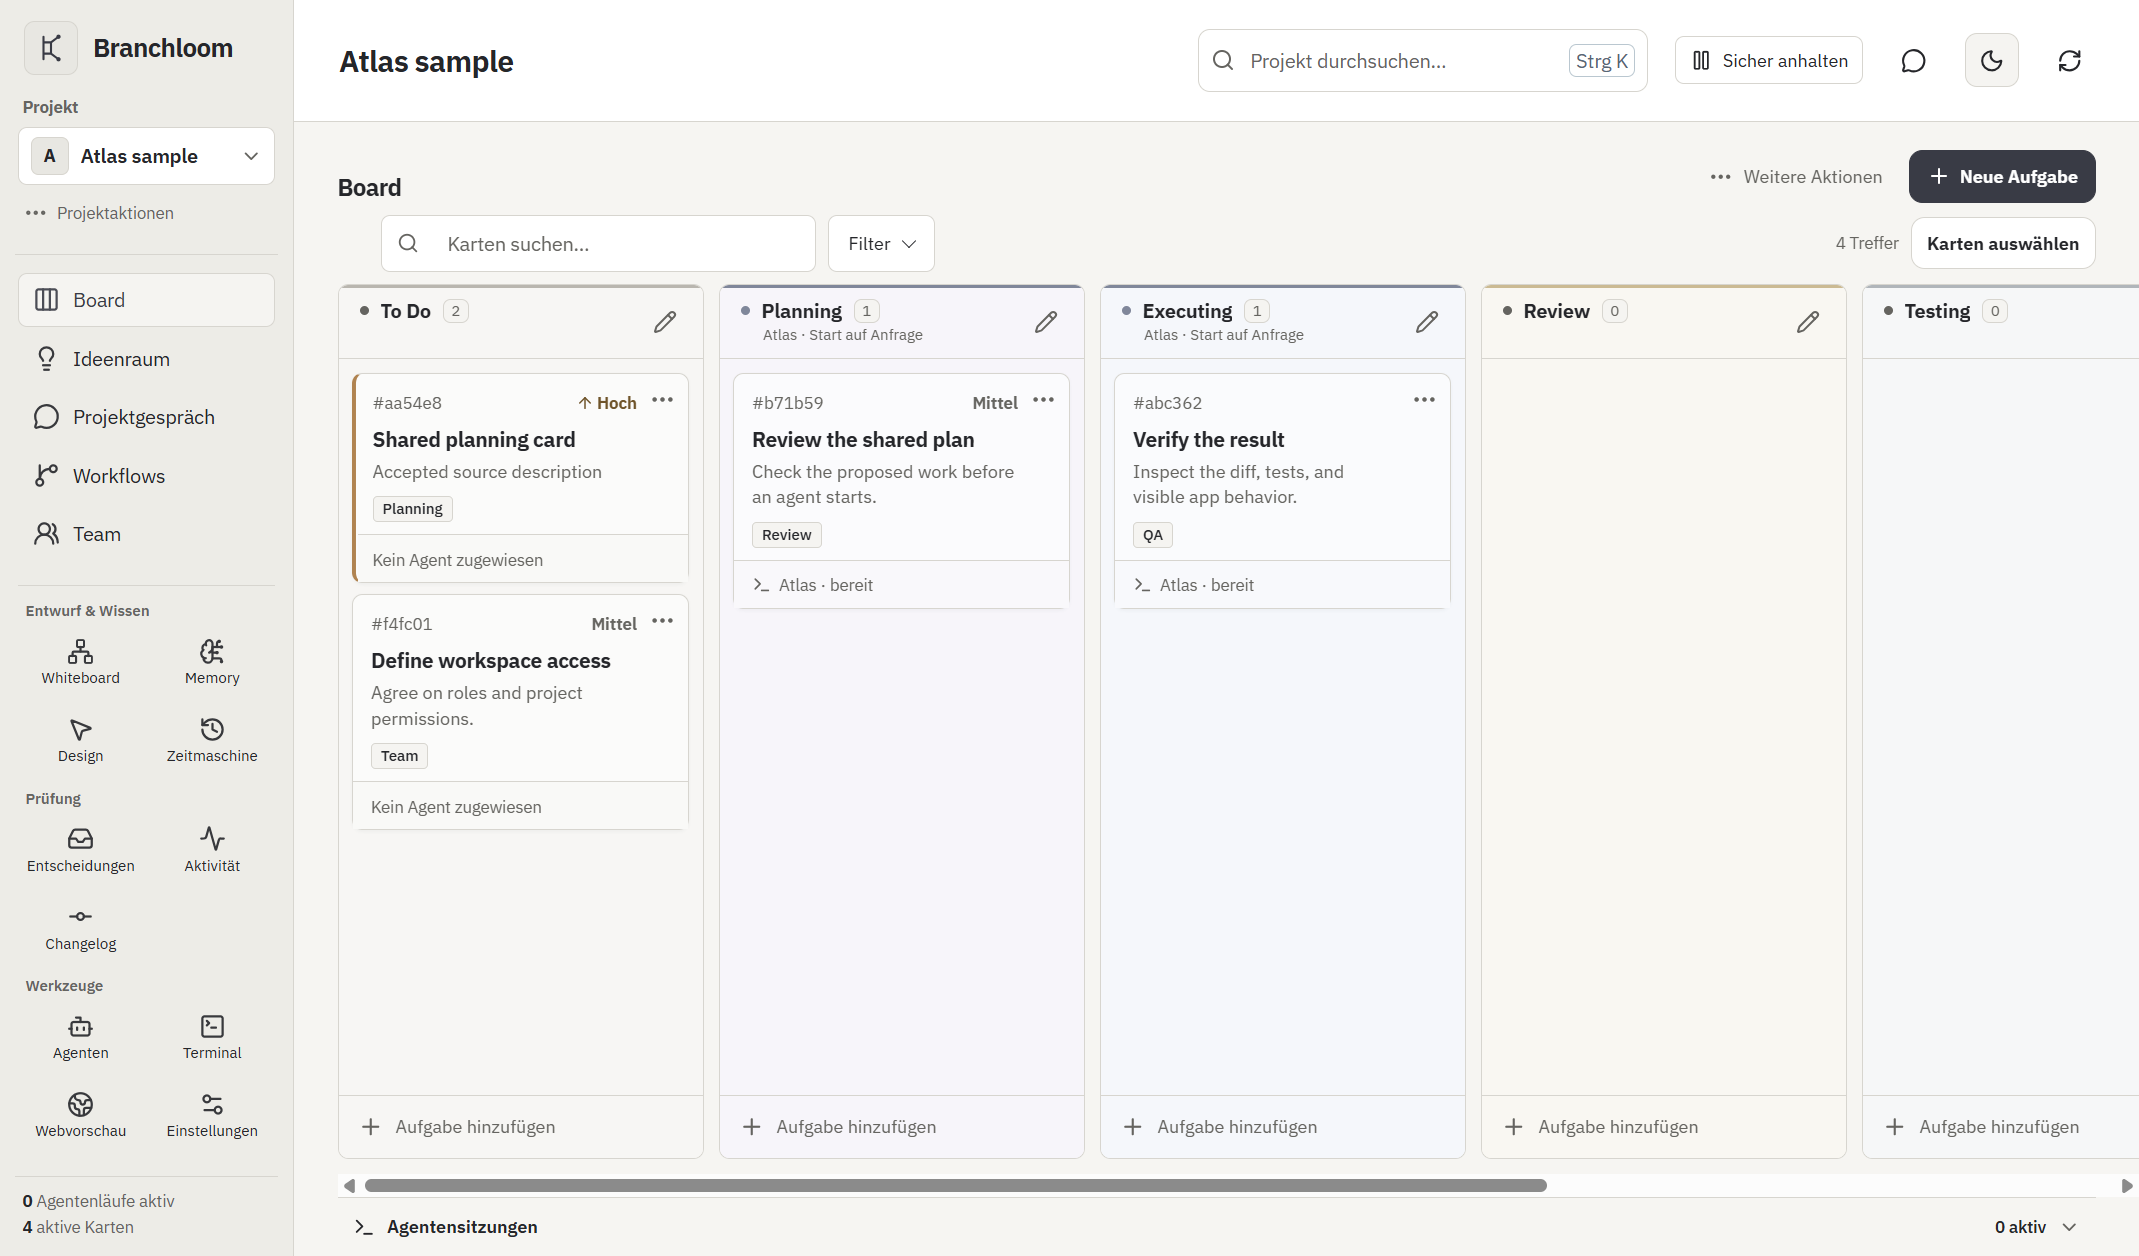
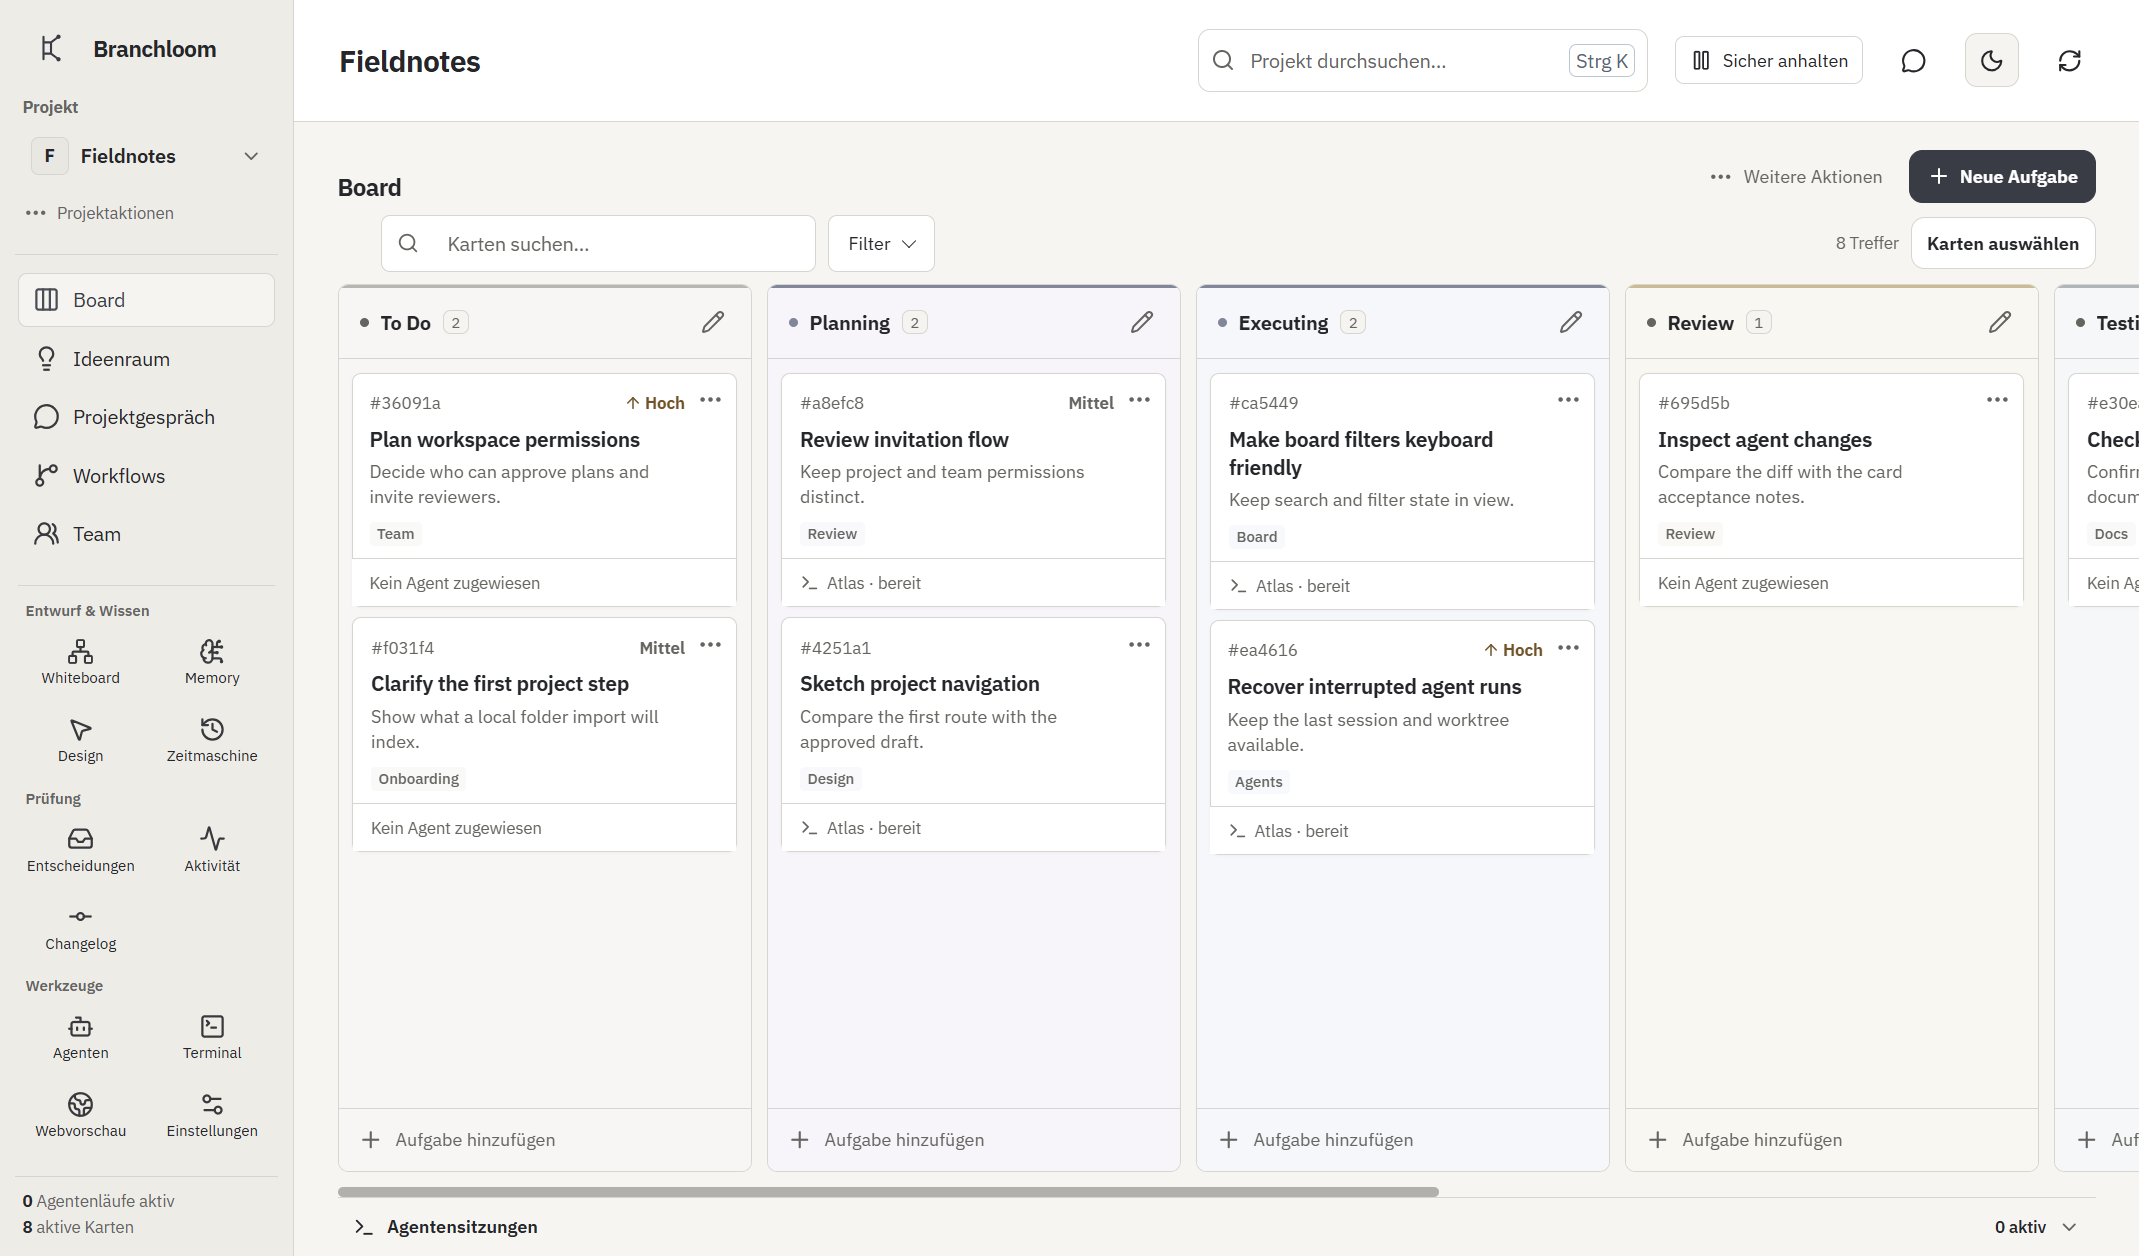
Lighten board cards and navigation rhythm

diff --git a/src/renderer/signals.css b/src/renderer/signals.css
@@ -182,7 +182,7 @@
 /* Card hierarchy: a quiet identity line, readable task, then real work state. */
 :root[data-theme] .board-scroll { padding-bottom: 0; }
 :root[data-theme] .board-columns { height: 100%; min-height: 0; align-items: stretch; gap: 10px; padding-bottom: 10px; }
-:root[data-theme] .board-column { width: 244px; min-width: 244px; height: 100%; min-height: 0; max-height: none; }
+:root[data-theme] .board-column { width: 276px; min-width: 276px; height: 100%; min-height: 0; max-height: none; }
 :root[data-theme] .board-column .column-body { flex: 1 1 auto; min-height: 0; }
 :root[data-theme] .board-card-wrap > .task-card {
   display: flex;
@@ -190,15 +190,15 @@
   gap: 0;
   min-height: 114px;
   padding: 10px 34px 0 12px;
-  border-color: color-mix(in srgb, var(--border) 80%, var(--text) 20%);
-  border-top: 2px solid var(--column-edge, var(--border));
-  border-radius: 5px;
-  box-shadow: 0 1px 2px color-mix(in srgb, var(--text) 5%, transparent);
+  border-color: var(--border);
+  border-radius: 6px;
+  background: var(--surface);
+  box-shadow: 0 1px 1px color-mix(in srgb, var(--text) 4%, transparent);
 }
 :root[data-theme] .board-card-wrap:not(.is-selecting) > .task-card { padding-left: 12px; }
 :root[data-theme] .board-card-wrap > .task-card.is-running,
 :root[data-theme] .board-card-wrap > .task-card[data-priority='urgent'],
-:root[data-theme] .board-card-wrap > .task-card[data-priority='high']:not(.is-running) { padding-left: 10px; }
+:root[data-theme] .board-card-wrap > .task-card[data-priority='high']:not(.is-running) { padding-left: 12px; border-left: 1px solid var(--border); }
 :root[data-theme] .task-card-kicker { display: flex; align-items: center; justify-content: space-between; gap: 8px; margin-bottom: 7px; color: var(--muted); font-size: 10px; font-variant-numeric: tabular-nums; }
 :root[data-theme] .task-card-priority-text { font-weight: 650; }
 :root[data-theme] .task-card-priority-text.priority-urgent { color: var(--danger); }
@@ -206,10 +206,7 @@
 :root[data-theme] .board-card-wrap > .task-card strong { display: -webkit-box; overflow: hidden; -webkit-box-orient: vertical; -webkit-line-clamp: 2; font-size: 14px; line-height: 1.35; }
 :root[data-theme] .board-card-wrap > .task-card .task-card-description { margin-top: 5px; font-size: 12px; line-height: 1.35; }
 :root[data-theme] .board-card-wrap > .task-card .task-card-metadata { order: 3; margin-top: 9px; }
-:root[data-theme] .board-card-wrap > .task-card .task-card-footer { order: 4; margin: auto -34px 0 -12px; min-height: 31px; padding: 7px 34px 6px 12px; border-top: 1px solid var(--border); background: color-mix(in srgb, var(--surface) 88%, var(--column-wash, var(--surface-2))); font-size: 11px; }
-:root[data-theme] .board-card-wrap > .task-card.is-running .task-card-footer,
-:root[data-theme] .board-card-wrap > .task-card[data-priority='urgent'] .task-card-footer,
-:root[data-theme] .board-card-wrap > .task-card[data-priority='high'] .task-card-footer { margin-left: -10px; padding-left: 10px; }
+:root[data-theme] .board-card-wrap > .task-card .task-card-footer { order: 4; margin: auto -34px 0 -12px; min-height: 31px; padding: 7px 34px 6px 12px; border-top: 1px solid var(--border); background: var(--surface); font-size: 11px; }
 :root[data-theme] .board-session-dock { border-top: 1px solid var(--border); background: var(--surface); }
 :root[data-theme] .board-session-toggle { min-height: 42px; padding-inline: 10px; font-weight: 600; }
 :root[data-theme] .board-session-toggle > strong { color: var(--text); }
@@ -219,7 +216,7 @@
 :root[data-theme] .board-session-running.state-stopped { background: var(--warning); }
 :root[data-theme] .board-session-running.state-failed { background: var(--danger); }
 @media (max-width: 600px) {
-  :root[data-theme] .board-column { width: min(244px, calc(100vw - 42px)); min-width: min(244px, calc(100vw - 42px)); }
+  :root[data-theme] .board-column { width: min(276px, calc(100vw - 42px)); min-width: min(276px, calc(100vw - 42px)); }
 }
 
 /* The board is the primary surface: keep its header quiet and the session rail compact when idle. */
@@ -285,18 +282,18 @@
 :root[data-theme] .board-filter-fields { width: min(360px, calc(100vw - 40px)); }
 :root[data-theme] .board-filter-fields label > span:not(.sr-only) { display: block; margin-bottom: 4px; color: var(--muted); font-size: 11px; }
 /* Cards keep the reference's information rhythm while using only persisted card and run data. */
-:root[data-theme] .board-card-wrap > .task-card { border-radius: 7px; padding-top: 11px; background: color-mix(in srgb, var(--surface) 55%, var(--column-wash, var(--surface-2))); }
+:root[data-theme] .board-card-wrap > .task-card { border-radius: 6px; padding-top: 11px; background: var(--surface); }
 :root[data-theme] .board-card-wrap > .task-card .task-card-kicker { min-height: 17px; margin-bottom: 6px; font-size: 11px; letter-spacing: .01em; }
 :root[data-theme] .task-card-priority-text { display: inline-flex; align-items: center; gap: 2px; font-size: 11px; }
-:root[data-theme] .board-card-wrap > .task-card strong { font-weight: 660; letter-spacing: -.015em; }
+:root[data-theme] .board-card-wrap > .task-card strong { font-weight: 620; letter-spacing: -.015em; }
 :root[data-theme] .board-card-wrap > .task-card .task-card-description { margin-top: 4px; color: var(--muted); line-height: 1.42; }
 :root[data-theme] .board-card-wrap > .task-card .task-card-metadata { gap: 4px; margin: 8px 0 8px; }
 :root[data-theme] .board-card-wrap > .task-card .task-card-metadata .card-label {
-  padding: 2px 6px;
-  border: 1px solid var(--border);
+  padding: 2px 5px;
+  border: 0;
   border-radius: 3px;
-  background: var(--surface-2);
-  color: var(--text);
+  background: color-mix(in srgb, var(--column-wash, var(--surface-2)) 72%, var(--surface));
+  color: var(--muted);
   font-size: 10px;
   font-weight: 500;
 }
@@ -306,10 +303,32 @@
   border-bottom: 1px solid var(--border);
   font-size: 10px;
 }
-:root[data-theme] .board-card-wrap > .task-card .task-card-footer { min-height: 32px; background: color-mix(in srgb, var(--surface) 30%, var(--column-wash, var(--surface-2))); color: var(--muted); }
+:root[data-theme] .board-card-wrap > .task-card .task-card-footer { min-height: 32px; background: var(--surface); color: var(--muted); }
+:root[data-theme] .board-column .column-run-summary { display: none; }
+:root[data-theme] .board-column .column-header { min-height: 43px; align-items: center; }
 :root[data-theme] .board-card-wrap > .task-card[data-run-state='failed'] .task-card-footer { color: var(--danger); }
 :root[data-theme] .board-card-wrap > .task-card[data-run-state='stopped'] .task-card-footer { color: var(--warning); }
+:root[data-theme] .board-scroll::-webkit-scrollbar { width: 7px; height: 7px; }
+:root[data-theme] .board-scroll::-webkit-scrollbar-thumb { border-radius: 8px; background: color-mix(in srgb, var(--muted) 48%, transparent); }
+:root[data-theme] .board-scroll::-webkit-scrollbar-track { background: transparent; }
+:root[data-theme] .brand-mark { border: 0; background: transparent; }
+:root[data-theme] .brand { padding-bottom: 18px; }
+:root[data-theme] .brand strong { font-size: 15px; font-weight: 650; }
+:root[data-theme] .nav-item.active { border-color: transparent; background: color-mix(in srgb, var(--surface) 62%, var(--sidebar)); color: var(--text); }
+:root[data-theme] .sidebar-projects .project-switcher-trigger { border-color: transparent; background: transparent; }
+:root[data-theme] .sidebar-projects .project-switcher-trigger:hover,
+:root[data-theme] .sidebar-projects .project-switcher-trigger[aria-expanded='true'] { background: color-mix(in srgb, var(--surface) 62%, var(--sidebar)); }
 @media (max-width: 600px) {
+  :root[data-theme] .sidebar { height: 52px; }
+  :root[data-theme] .side-nav { scrollbar-width: none; }
+  :root[data-theme] .side-nav::-webkit-scrollbar { display: none; }
+  :root[data-theme] .topbar { min-height: 54px; padding-block: 5px; }
+  :root[data-theme] .mobile-workspace { padding-block: 5px; }
+  :root[data-theme] .board-page { padding-top: 8px; }
+  :root[data-theme] .board-toolbar.board-header-actions { flex-direction: row; align-items: center; gap: 8px; padding-right: 16px; }
+  :root[data-theme] .board-header-tools { flex-wrap: nowrap; margin-left: auto; gap: 4px; }
+  :root[data-theme] .board-more-tools > summary { justify-content: center; width: 35px; min-width: 35px; overflow: hidden; font-size: 0; }
+  :root[data-theme] .board-scroll::-webkit-scrollbar { display: none; }
   :root[data-theme] .board-filters { display: grid; grid-template-columns: minmax(0, 1fr) auto auto; align-items: center; }
   :root[data-theme] .board-filters .board-search { grid-column: 1 / -1; width: 100%; min-width: 0; }
   :root[data-theme] .board-filter-count { grid-column: 2; margin: 0; }

diff --git a/src/main/smoke-team-workspace.ts b/src/main/smoke-team-workspace.ts
@@ -16,11 +16,12 @@ export async function runTeamWorkspaceVisibleSmoke(window: BrowserWindow, store:
   const boardScreenshot = process.env.BRANCHLOOM_TEAM_BOARD_OVERVIEW_SCREENSHOT;
   const narrowBoardScreenshot = process.env.BRANCHLOOM_TEAM_BOARD_NARROW_SCREENSHOT;
   const darkBoardScreenshot = process.env.BRANCHLOOM_TEAM_BOARD_DARK_SCREENSHOT;
-  const projectName = boardScreenshot ? 'Atlas sample' : 'Synthetic team project';
+  const projectName = boardScreenshot ? 'Fieldnotes' : 'Synthetic team project';
   const project = store.createProject({ name: projectName, path: projectPath });
   const card = store.createCard({ projectId: project.id, columnId: store.snapshot(project.id).columns[0]!.id,
-    title: 'Shared planning card', description: 'Accepted source description',
-    ...(boardScreenshot ? { priority: 'high' as const, labels: ['Planning'] } : {}) });
+    title: boardScreenshot ? 'Plan workspace permissions' : 'Shared planning card',
+    description: boardScreenshot ? 'Decide who can approve plans and invite reviewers.' : 'Accepted source description',
+    ...(boardScreenshot ? { priority: 'high' as const, labels: ['Team'] } : {}) });
   await new Promise<void>((resolve, reject) => {
     window.webContents.once('did-finish-load', () => resolve());
     window.webContents.once('did-fail-load', (_event, _code, detail) => reject(new Error(detail)));
@@ -32,11 +33,19 @@ export async function runTeamWorkspaceVisibleSmoke(window: BrowserWindow, store:
     if (columns[1]) store.updateColumn({ id: columns[1].id, agentId: sampleAgent.id });
     if (columns[2]) store.updateColumn({ id: columns[2].id, agentId: sampleAgent.id });
     store.createCard({ projectId: project.id, columnId: columns[0]!.id,
-      title: 'Define workspace access', description: 'Agree on roles and project permissions.', priority: 'medium', labels: ['Team'] });
+      title: 'Clarify the first project step', description: 'Show what a local folder import will index.', priority: 'medium', labels: ['Onboarding'] });
     store.createCard({ projectId: project.id, columnId: columns[1]?.id ?? columns[0]!.id,
-      title: 'Review the shared plan', description: 'Check the proposed work before an agent starts.', priority: 'medium', labels: ['Review'] });
+      title: 'Review invitation flow', description: 'Keep project and team permissions distinct.', priority: 'medium', labels: ['Review'] });
     store.createCard({ projectId: project.id, columnId: columns[2]?.id ?? columns[0]!.id,
-      title: 'Verify the result', description: 'Inspect the diff, tests, and visible app behavior.', labels: ['QA'] });
+      title: 'Make board filters keyboard friendly', description: 'Keep search and filter state in view.', labels: ['Board'] });
+    store.createCard({ projectId: project.id, columnId: columns[1]?.id ?? columns[0]!.id,
+      title: 'Sketch project navigation', description: 'Compare the first route with the approved draft.', labels: ['Design'] });
+    store.createCard({ projectId: project.id, columnId: columns[2]?.id ?? columns[0]!.id,
+      title: 'Recover interrupted agent runs', description: 'Keep the last session and worktree available.', priority: 'high', labels: ['Agents'] });
+    if (columns[3]) store.createCard({ projectId: project.id, columnId: columns[3].id,
+      title: 'Inspect agent changes', description: 'Compare the diff with the card acceptance notes.', labels: ['Review'] });
+    if (columns[4]) store.createCard({ projectId: project.id, columnId: columns[4].id,
+      title: 'Check release notes', description: 'Confirm that the visible changes are documented.', labels: ['Docs'] });
     await window.webContents.executeJavaScript(`(async () => {
       const select = document.querySelector('#project-select');
       if (!(select instanceof HTMLSelectElement)) throw new Error('Synthetic board selector is missing.');
@@ -44,7 +53,7 @@ export async function runTeamWorkspaceVisibleSmoke(window: BrowserWindow, store:
       setter.call(select, ${JSON.stringify(project.id)});
       select.dispatchEvent(new Event('change', { bubbles: true }));
       for (let attempt = 0; attempt < 120; attempt += 1) {
-        if (document.querySelector('.board-columns')?.textContent?.includes('Verify the result')) return true;
+        if (document.querySelector('.board-columns')?.textContent?.includes('Make board filters keyboard friendly')) return true;
         await new Promise((resolve) => setTimeout(resolve, 50));
       }
       throw new Error('Synthetic board did not settle for screenshot.');
@@ -232,7 +241,7 @@ export async function runTeamWorkspaceVisibleSmoke(window: BrowserWindow, store:
     if (!team) throw new Error('Team view is unavailable.');
     team.click();
     const board = await wait(() => document.querySelector('.team-workspace-board'), 'shared board');
-    if (!board.textContent.includes('Shared planning card')) throw new Error('Team card is absent from shared board.');
+    if (!board.textContent.includes(${JSON.stringify(card.title)})) throw new Error('Team card is absent from shared board.');
     board.querySelector('.team-workspace-card').click();
     const editor = await wait(() => document.querySelector('.team-card-draft textarea:not(:disabled)'), 'draft editor');
     const priority = await wait(() => document.querySelector('select[aria-label="Teamkarten-Priorität"]'), 'priority control');
@@ -278,7 +287,7 @@ export async function runTeamWorkspaceVisibleSmoke(window: BrowserWindow, store:
     }
     throw new Error('Guest draft edit did not reach the visible owner editor.');
   })()`);
-  if (store.snapshot(project.id).cards.find((item) => item.id === card.id)?.description !== 'Accepted source description') {
+  if (store.snapshot(project.id).cards.find((item) => item.id === card.id)?.description !== card.description) {
     throw new Error('A draft edit changed the accepted card description.');
   }
   const ownerConnection = await new TeamConnectionStore(app.getPath('userData'), safeStorage).get(result.workspaceId);

diff --git a/docs/STATUS.md b/docs/STATUS.md
@@ -2,9 +2,14 @@
 
 Stand: 27.11.2026 (Europe/Berlin). Dies ist ein Entwicklungsstand, keine vollständige Kangentic-Parität.
 
+## Board-Gestaltung nach erneutem Referenzvergleich (lokal geprüft)
+
+- Die Karten liegen wieder auf einer klaren weißen Fläche statt in einer zusätzlichen Spaltentönung. Farbige Priorität bleibt als kleine Textinformation, nicht als weitere Kartenleiste; Labels und Agentenstatus sind ruhiger. Spalten sind breiter, die Agentenangabe im Spaltenkopf ist visuell entfernt, weil sie auf den Karten bereits steht. Marke, Projektauswahl und aktive Navigation sind flacher; der horizontale Board-Scrollbalken ist schmaler.
+- Im schmalen Fenster stehen Board-Titel und Hauptaktion zusammen; die Suche bleibt direkt darunter. Ein isoliertes synthetisches Acht-Karten-Projekt wurde im echten, versteckten Electron-Fenster bei 1440 × 900 hell/dunkel und 430 × 760 aufgenommen. Der Team-Workspace-Smoke, 20 gezielte Renderer-Tests, Typprüfung und Build bestanden. Der Audit meldete keine hohen/kritischen Funde, aber sechs moderate Funde in Build-Abhängigkeiten. Das neue README-Bild zeigt ausschließlich synthetische Aufgaben. Der Screenshot enthält keine echten Team-Besitzer, Kommentare oder laufenden Agenten, weil diese Daten im Beispiel nicht vorhanden sind. Die visuelle Abnahme durch den Nutzer steht noch aus.
+
 ## Kanban-Karten: Datenhierarchie und belegter Laufzustand (lokal geprüft)
 
-- Auf Karten stehen vorhandene Workflow-Schrittbelege jetzt vor der Aufgabenkennung; bestätigte Priorität, Titel, Kurzbeschreibung, Labels und der tatsächliche Agenten-/Laufzustand folgen in einer klareren Reihenfolge. Ein letzter fehlgeschlagener oder gestoppter Lauf wird nicht mehr als bloß „beendet“ dargestellt. Die Kartenfläche nimmt die gespeicherte Spaltenfarbe zurückhaltend auf; Prioritäts- und Fehlerfarben bleiben an reale Daten gebunden.
+- Auf Karten stehen vorhandene Workflow-Schrittbelege jetzt vor der Aufgabenkennung; bestätigte Priorität, Titel, Kurzbeschreibung, Labels und der tatsächliche Agenten-/Laufzustand folgen in einer klareren Reihenfolge. Ein letzter fehlgeschlagener oder gestoppter Lauf wird nicht mehr als bloß „beendet“ dargestellt. Prioritäts- und Fehlerfarben bleiben an reale Daten gebunden. Die vorübergehende Spaltentönung der Karten wurde im folgenden Gestaltungsdurchgang zurückgenommen.
 - Die README-Aufnahme zeigt ein isoliertes synthetisches Projekt mit Prioritäten, Labels und einem konfigurierten Beispielagenten, nicht einen echten Nutzerlauf. Der versteckte Electron-Smoke und 13 gezielte Board-/Workflow-Tests bestanden; 1440 × 900 im hellen und dunklen Theme wurde gesichtet. Echtes Team-Ownership, Kommentare und Prozentfortschritt stehen nicht im aktuellen Karten-Datenmodell; die Figma-Referenz darf dafür keine erfundenen Avatare oder Fortschrittswerte erzeugen.
 - Die CI für den vorigen Board-Commit `1f63158` scheiterte an drei veralteten Tests: Der Filtertest erwartete die frühere Leistenanordnung, zwei Gastlinktests verwendeten eine inzwischen abgelaufene feste Frist. Die Tests prüfen jetzt die aktuelle Filtergruppe beziehungsweise einen zum Testzeitpunkt gültigen Link; die sieben betroffenen Tests bestanden lokal. Ein vollständiger grüner CI-Lauf für diese Nacharbeit steht noch aus.
 
